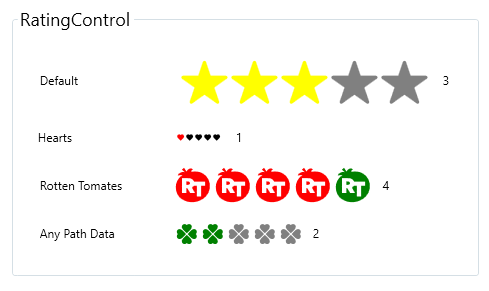
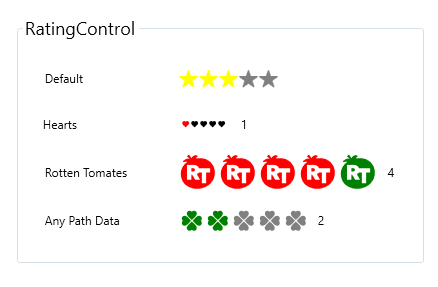
checking in rating control changes.

diff --git a/Themes/RatingStyles.xaml b/Themes/RatingStyles.xaml
@@ -357,10 +357,9 @@
                     <Grid>
                         <Viewbox>
                             <StackPanel Orientation="Horizontal">
-
                                 <Path
                                     x:Name="Star1"
-                                    Style="{StaticResource RatingStarStyle}"
+                                    Data="{Binding StarSymbol, RelativeSource={RelativeSource FindAncestor, AncestorType={x:Type local:RatingControl}}}"
                                     Tag="1">
                                     <b:Interaction.Triggers>
                                         <b:EventTrigger EventName="MouseEnter">
@@ -373,7 +372,7 @@
                                 </Path>
                                 <Path
                                     x:Name="Star2"
-                                    Style="{StaticResource RatingStarStyle}"
+                                    Data="{Binding StarSymbol, RelativeSource={RelativeSource FindAncestor, AncestorType={x:Type local:RatingControl}}}"
                                     Tag="2">
                                     <b:Interaction.Triggers>
                                         <b:EventTrigger EventName="MouseEnter">
@@ -386,7 +385,7 @@
                                 </Path>
                                 <Path
                                     x:Name="Star3"
-                                    Style="{StaticResource RatingStarStyle}"
+                                    Data="{Binding StarSymbol, RelativeSource={RelativeSource FindAncestor, AncestorType={x:Type local:RatingControl}}}"
                                     Tag="3">
                                     <b:Interaction.Triggers>
                                         <b:EventTrigger EventName="MouseEnter">
@@ -399,7 +398,7 @@
                                 </Path>
                                 <Path
                                     x:Name="Star4"
-                                    Style="{StaticResource RatingStarStyle}"
+                                    Data="{Binding StarSymbol, RelativeSource={RelativeSource FindAncestor, AncestorType={x:Type local:RatingControl}}}"
                                     Tag="4">
                                     <b:Interaction.Triggers>
                                         <b:EventTrigger EventName="MouseEnter">
@@ -412,7 +411,7 @@
                                 </Path>
                                 <Path
                                     x:Name="Star5"
-                                    Style="{StaticResource RatingStarStyle}"
+                                    Data="{Binding StarSymbol, RelativeSource={RelativeSource FindAncestor, AncestorType={x:Type local:RatingControl}}}"
                                     Tag="5">
                                     <b:Interaction.Triggers>
                                         <b:EventTrigger EventName="MouseEnter">

diff --git a/RatingControlItem.cs b/RatingControlItem.cs
@@ -1,0 +1,75 @@
+using System.Windows;
+using System.Windows.Controls;
+using System.Windows.Media;
+
+namespace Jon.Wpf.CustomControls
+{
+
+    public class RatingControlItem : Control
+    {
+        static RatingControlItem()
+        {
+            DefaultStyleKeyProperty.OverrideMetadata(typeof(RatingControlItem), new FrameworkPropertyMetadata(typeof(RatingControlItem)));
+        }
+
+        public RatingControlItem()
+        {
+            BorderThickness = new Thickness(1);
+            BorderBrush = Brushes.Red;
+        }
+
+        private void OnSelectedChanged()
+        {
+            if(IsSelected)
+            {
+                Background = SelectedBrush;
+            }
+            else
+            {
+                Background = UnselectedBrush;
+            }
+        }
+
+        public Brush SelectedBrush
+        {
+            get { return (Brush)GetValue(SelectedBrushProperty); }
+            set { SetValue(SelectedBrushProperty, value); OnSelectedChanged(); }
+        }
+
+        public static readonly DependencyProperty SelectedBrushProperty =
+            DependencyProperty.Register("SelectedBrush", typeof(Brush), typeof(RatingControlItem), new PropertyMetadata(false));
+
+
+        public Brush UnselectedBrush
+        {
+            get { return (Brush)GetValue(UnselectedBrushProperty); }
+            set { SetValue(UnselectedBrushProperty, value); OnSelectedChanged(); }
+        }
+
+        public static readonly DependencyProperty UnselectedBrushProperty =
+            DependencyProperty.Register("UnselectedBrush", typeof(Brush), typeof(RatingControlItem), new PropertyMetadata(false));
+
+
+
+
+
+        public bool IsSelected
+        {
+            get { return (bool)GetValue(IsSelectedProperty); }
+            set { SetValue(IsSelectedProperty, value); OnSelectedChanged();  }
+        }
+
+        public static readonly DependencyProperty IsSelectedProperty =
+            DependencyProperty.Register("IsSelected", typeof(bool), typeof(RatingControlItem), new PropertyMetadata(false));
+
+
+        public Geometry StarSymbol
+        {
+            get { return (Geometry)GetValue(StarSymbolProperty); }
+            set { SetValue(StarSymbolProperty, value); }
+        }
+        public static readonly DependencyProperty StarSymbolProperty =
+     DependencyProperty.Register("StarSymbol", typeof(Geometry), typeof(RatingControlItem), new PropertyMetadata(null));
+
+    }
+}

diff --git a/Converters/BooleanToBrushConverter.cs b/Converters/BooleanToBrushConverter.cs
@@ -1,0 +1,30 @@
+using System;
+using System.Collections.Generic;
+using System.Globalization;
+using System.Linq;
+using System.Text;
+using System.Threading.Tasks;
+using System.Windows.Data;
+using System.Windows.Media;
+
+namespace Jon.Wpf.CustomControls.Converters
+{
+    public class BooleanToBrushConverter : IValueConverter
+    {
+        public object Convert(object value, Type targetType, object parameter, CultureInfo culture)
+        {
+            if (value is bool booleanValue)
+            {
+                return booleanValue ? Brushes.Yellow : Brushes.Gray;
+            }
+
+            return Brushes.Gray;
+        }
+
+        public object ConvertBack(object value, Type targetType, object parameter, CultureInfo culture)
+        {
+            throw new NotImplementedException();
+        }
+    }
+
+}

diff --git a/RatingControl.cs b/RatingControl.cs
@@ -110,12 +110,18 @@ namespace Jon.Wpf.CustomControls
 
         private void UpdateStars()
         {
+            int i = 1;
             foreach (var star in FindVisualChildren<Path>(this))
             {
-                if (star.Tag is string tag && Int32.TryParse(tag, out int thisStarNumber))
+                if(i <= RatingValue)
                 {
-                    star.Fill = thisStarNumber <= RatingValue ? SelectedBrush : UnselectedBrush;
+                    star.Fill = SelectedBrush;
                 }
+                else
+                {
+                    star.Fill = UnselectedBrush;
+                }
+                i++;
             }
         }
 

diff --git a/Docs/RatingControl.md b/Docs/RatingControl.md
@@ -1,16 +1,55 @@
-# RatingControl
+Sure, here is your updated README.md:
 
-`RatingControl` is a customizable WPF control used for implementing a star rating system. This control is highly customizable and interactive, enabling a great user experience for rating systems.
+# RatingControl
+
+`RatingControl` is a customizable WPF control used for implementing a star rating system. This control is highly customizable, interactive, and data-bindable, providing a great user experience for rating systems.
+
+
+![RatingControl](https://i.imgur.com/HcAQvb8.png?1)
+
 
 ## Usage
 
-First, add the `RatingControl` to your XAML file:
+First, add the namespace and `RatingControl` to your XAML file:
 
 ```xaml
-<local:RatingControl x:Name="MyRatingControl" />
+xmlns:customcontrols="clr-namespace:YourNamespace.Controls"
+...
+<customcontrols:RatingControl
+    Width="100"
+    RatingValue="0"
+    StarSymbol="M12,21.35L10.55,20.03C5.4,15.36 2,12.27 2,8.5C2,5.41 4.42,3 7.5,3C9.24,3 10.91,3.81 12,5.08C13.09,3.81 14.76,3 16.5,3C19.58,3 22,5.41 22,8.5C22,12.27 18.6,15.36 13.45,20.03L12,21.35Z">
+</customcontrols:RatingControl>
 ```
 
 Then, you can customize its properties according to your needs.
+
+Here are some examples of how to use the `RatingControl`:
+
+```xaml
+<customcontrols:RatingControl
+    Width="100"
+    Background="Blue"
+    RatingValue="3"
+    SelectedBrush="Yellow"
+    StarSymbol="M463 192H315.9L271.2 58.6C269 52.1 262.9 48 256 48s-13 4.1-15.2 10.6L196.1 192H48c-8.8 0-16 7.2-16 16 0 .9.1 1.9.3 2.7.2 3.5 1.8 7.4 6.7 11.3l120.9 85.2-46.4 134.9c-2.3 6.5 0 13.8 5.5 18 2.9 2.1 5.6 3.9 9 3.9 3.3 0 7.2-1.7 10-3.6l118-84.1 118 84.1c2.8 2 6.7 3.6 10 3.6 3.4 0 6.1-1.7 8.9-3.9 5.6-4.2 7.8-11.4 5.5-18L352 307.2l119.9-86 2.9-2.5c2.6-2.8 5.2-6.6 5.2-10.7 0-8.8-8.2-16-17-16z"
+    UnselectedBrush="Gray" />
+
+<customcontrols:RatingControl
+    x:Name="ratingControl2"
+    Width="45"
+    Margin="5,0,5,0"
+    RatingValue="1"
+    SelectedBrush="Red"
+    StarSymbol="M12,21.35L10.55,20.03C5.4,15.36 2,12.27 2,8.5C2,5.41 4.42,3 7.5,3C9.24,3 10.91,3.81 12,5.08C13.09,3.81 14.76,3 16.5,3C19.58,3 22,5.41 22,8.5C22,12.27 18.6,15.36 13.45,20.03L12,21.35Z"
+    UnselectedBrush="Black" />
+```
+
+
+This will create these two rating controls:
+
+![StarsAndHearts](https://i.imgur.com/rj09urS.png)
+
 
 ## Properties
 
@@ -20,23 +59,19 @@ Type: `double`
 
 This property represents the current rating value of the control. It is a dependency property.
 
-### `MaxRatingValue`
-
-Type: `double`
-
-This property represents the maximum rating value of the control. It is a dependency property.
-
 ### `IsReadOnly`
 
 Type: `bool`
 
-This property indicates whether the control is read-only. It is a dependency property.
+This property indicates whether the
+
+control is read-only. It is a dependency property.
 
 ### `StarSymbol`
 
-Type: `Geometry`
+Type: `string`
 
-This property allows setting a custom star symbol using a `Geometry` object. It is a dependency property.
+This property allows setting a custom star symbol using a `string` that represents the Geometry data for the Path of the star. It is a dependency property.
 
 ### `UnselectedBrush`
 
@@ -49,24 +84,6 @@ This property defines the brush that is used to paint unselected stars. It is a 
 Type: `Brush`
 
 This property defines the brush that is used to paint selected stars. It is a dependency property.
-
-### `ClickCommand`
-
-Type: `ICommand`
-
-This property allows you to bind a command that is executed when a star is clicked. It is a dependency property.
-
-### `MouseOverCommand`
-
-Type: `ICommand`
-
-This property allows you to bind a command that is executed when the mouse is over a star. It is a dependency property.
-
-### `MouseLeaveCommand`
-
-Type: `ICommand`
-
-This property allows you to bind a command that is executed when the mouse leaves a star. It is a dependency property.
 
 ## Events
 
